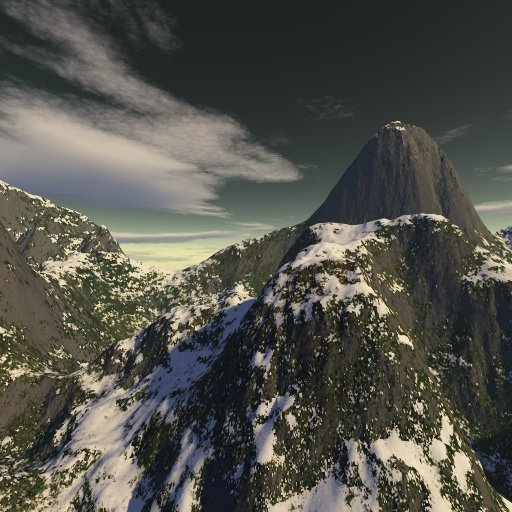
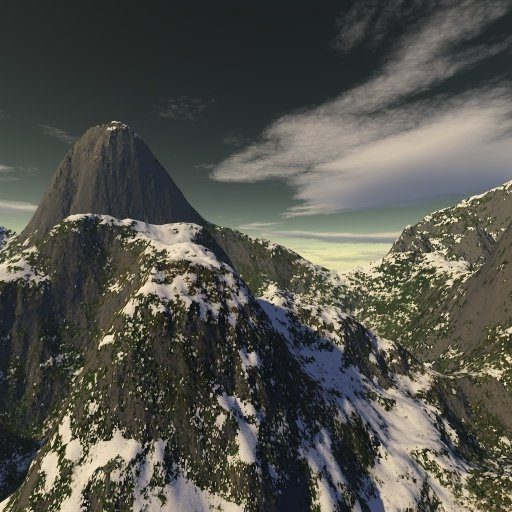
update; Improved skybox generation and view update;

diff --git a/osgviewerQt/DualScreenViewer.cpp b/osgviewerQt/DualScreenViewer.cpp
@@ -235,7 +235,7 @@ void DualScreenViewer::Update(IArgs *results)
         osgGA::CameraManipulator* cameraManipulator = keyManipulator->getCurrentMatrixManipulator(); //keyManipulator->getMatrixManipulatorWithIndex(i);
         HandleManipulator(cameraManipulator, results);
     }
-
+    Update(view, m_virtualEye);
 }
 
 void DualScreenViewer::HandleManipulator(osgGA::CameraManipulator* cameraManipulator, IArgs *results)
@@ -261,22 +261,8 @@ void DualScreenViewer::HandleManipulator(osgGA::CameraManipulator* cameraManipul
         osgGA::TrackballManipulator* trackballManipulator = static_cast<osgGA::TrackballManipulator*>(cameraManipulator);
         trackballManipulator->getTransformation(eye, rotation);
     }
+
     m_virtualEye = eye;
-    SetupView(m_virtualEye);
-    SetupProjection(m_virtualEye);
-    osgViewer::View* view = static_cast<osgViewer::View*>(m_viewerArgs.Get("main"));
-    osg::DisplaySettings* ds = view->getDisplaySettings();
-    ds->setScreenDistance(-m_virtualEye.length());
-    for (int i = 0; i < NumOfScreens; i++)
-    {
-        osgViewer::View::Slave& slave = view->getSlave(i);
-        slave._viewOffset = m_viewOffset[i];
-        slave._projectionOffset = m_projectionOffset[i];
-    }
-
-    //MyClampProjectionMatrixCallback* callback = static_cast<MyClampProjectionMatrixCallback*>( camera->getClampProjectionMatrixCallback() );
-    //callback->clampProjectionMatrixImplementation(camera->getProjectionMatrix(), m_display.zNear, m_display.zFar);
-
 }
 
 void DualScreenViewer::UpdateMap(void* instance, IArgs* args)
@@ -294,29 +280,38 @@ void DualScreenViewer::UpdateMap(void* instance, IArgs* args)
 }
 
 
-void DualScreenViewer::SetupView(osg::Vec3 eye)
+void DualScreenViewer::SetupView()
 {
-    //m_viewMatrix = osg::Matrix::lookAt(m_virtualCenter, m_virtualOrigin, osg::Vec3(0,1,0));
     double angle = osg::inDegrees(m_angleBetweenScreensInDegrees/2.0);
     double angleOffset = osg::PI_2 - angle;
-
-    //osg::Vec3 rightCenter(m_display.Width * cos(angleOffset), m_virtualOrigin.y(), m_display.Width * sin(angleOffset));
-    //osg::Vec3 leftCenter(-m_display.Width * cos(angleOffset), m_virtualOrigin.y(), m_display.Width * sin(angleOffset));
-    //osg::Vec3 eyeCenter(m_virtualOrigin.x(), eye.y(), m_virtualOrigin.z());
     double sx = tan(angleOffset);
     m_viewOffset[Right] = osg::Matrix::translate(-m_virtualCenter) * osg::Matrix::rotate(-angleOffset, osg::Vec3(0,1,0)) * MatrixExtension::getShear(osg::Vec3(sx, 0.0, 1.0)) * osg::Matrix::translate(m_virtualCenter);
     m_viewOffset[Left] = osg::Matrix::translate(-m_virtualCenter) * osg::Matrix::rotate(angleOffset, osg::Vec3(0,1,0)) * MatrixExtension::getShear(osg::Vec3(-sx, 0.0, 1.0)) * osg::Matrix::translate(m_virtualCenter);;
 } 
 
-void DualScreenViewer::SetupProjection(osg::Vec3 eye)
+void DualScreenViewer::SetupProjection()
 {
     m_projectionMatrix = m_display.GetFrustum();
     double offset = 1.0 + m_display.BezelWidth/m_display.Width;
+    m_projectionOffset[Right] = osg::Matrix::translate(offset, 0.0, 0.0);
+    m_projectionOffset[Left]  = osg::Matrix::translate(-offset, 0.0, 0.0);
+}
+
+void DualScreenViewer::Update(osgViewer::View* view, osg::Vec3 eye)
+{
     double offsetX = eye.x()/m_display.screenWidth;
     double offsetY = eye.y()/m_display.screenHeight;
     double offsetZ = (eye.z()-m_virtualCenter.z())/m_display.screenDepth;
-    m_projectionOffset[Right] = osg::Matrix::translate(offsetX+offset, offsetY, offsetZ);
-    m_projectionOffset[Left]  = osg::Matrix::translate(offsetX-offset, offsetY, offsetZ);
+
+    osg::DisplaySettings* ds = view->getDisplaySettings();
+    ds->setScreenDistance(-eye.length());
+
+    for (int i = 0; i < NumOfScreens; i++)
+    {
+        osgViewer::View::Slave& slave = view->getSlave(i);
+        //slave._viewOffset = m_viewOffset[i];
+        slave._projectionOffset = m_projectionOffset[i] * osg::Matrix::translate(offsetX, offsetY, offsetZ);
+    }
 }
 
 
@@ -375,7 +370,7 @@ void DualScreenViewer::ToggleStereoSettings(osgViewer::View* view)
     {
         ds->setStereoMode(osg::DisplaySettings::HORIZONTAL_SPLIT);
         ds->setDisplayType(osg::DisplaySettings::MONITOR);
-        ds->setScreenDistance(-1.0f/*m_display.screenDepth*/); 
+        ds->setScreenDistance(m_display.screenDepth); 
         ds->setScreenHeight(m_display.screenHeight);
         ds->setScreenWidth(m_display.screenWidth);
         ds->setEyeSeparation(0.05f);
@@ -490,7 +485,7 @@ osg::MatrixTransform* DualScreenViewer::makeFrustumFromCamera(osgViewer::View* v
     for(unsigned int i = 0; i < numOfSlaves; i++)
     {
         osg::View::Slave& slave = view->getSlave(i);
-        osg::Matrixd slaveProj(proj * slave._projectionOffset);
+        osg::Matrixd slaveProj(proj * m_projectionOffset[i]);
         osg::MatrixTransform* mtSlave = new osg::MatrixTransform;
         mtSlave->setMatrix( osg::Matrixd::inverse( slave._viewOffset ) );
         mtSlave->addChild( drawFrustum(slaveProj) );

diff --git a/Holoview/HoloWindow.cpp b/Holoview/HoloWindow.cpp
@@ -6,30 +6,30 @@ HoloWindow::HoloWindow(const QMap<QString, QSize> &customSizeHints,
 	: MainWindow(customSizeHints, parent, flags)
 {
     osg::ref_ptr<osg::Node> duck = osgDB::readNodeFile("../Dependencies/Models/Collada/duck.dae.-90,-90,0.rot");
-    osg::ref_ptr<osg::Node> airplane = osgDB::readNodeFile("../Dependencies/Models/3ds/airplane/Airplane AN-2 N200314.3DS.-90,-10,0.rot");
-    osg::ref_ptr<osg::Node> cessna = osgDB::readNodeFile("../Dependencies/Models/3ds/TargetCameraAnim.3ds.-90,0,0.rot");
-    osg::ref_ptr<osg::Node> kinect = osgDB::readNodeFile("../Dependencies/Models/3ds/kinect/kinect_edited.3ds.-20,0,0.rot");
+    osg::ref_ptr<osg::Node> airplane = osgDB::readNodeFile("../Dependencies/Models/3ds/airplane/Airplane AN-2 N200314.3DS.-90,-100,0.rot");
+    //osg::ref_ptr<osg::Node> cessna = osgDB::readNodeFile("../Dependencies/Models/3ds/TargetCameraAnim.3ds.-90,0,0.rot");
+    //osg::ref_ptr<osg::Node> kinect = osgDB::readNodeFile("../Dependencies/Models/3ds/kinect/kinect_edited.3ds.-20,0,0.rot");
 
     osg::Vec3 modelPosition1(0.50, 0.0, 0);
     osg::Vec3 modelPosition2(-0.50, 0.0, 0);
-    osg::Vec3 modelPosition3(0.25, 0.0,  0);
-    osg::Vec3 modelPosition4(-0.25, 0.0, 0);
-    osg::Vec3 modelPosition5(0.0, 0.0, 0.30); //kinect
+    //osg::Vec3 modelPosition3(0.25, 0.0,  0);
+    //osg::Vec3 modelPosition4(-0.25, 0.0, 0);
+    //osg::Vec3 modelPosition5(0.0, 0.0, 0.30); //kinect
 
     osg::ref_ptr<osg::PositionAttitudeTransform> transform1 = GetModelTransformHelper(duck, modelPosition1);
     osg::ref_ptr<osg::PositionAttitudeTransform> transform2 = GetModelTransformHelper(airplane, modelPosition2);
-    osg::ref_ptr<osg::PositionAttitudeTransform> transform3 = GetModelTransformHelper(cessna, modelPosition3);
-    osg::ref_ptr<osg::PositionAttitudeTransform> transform4 = GetModelTransformHelper(duck, modelPosition4);
-    osg::ref_ptr<osg::PositionAttitudeTransform> transform5 = GetModelTransformHelper(kinect, modelPosition5);
+    //osg::ref_ptr<osg::PositionAttitudeTransform> transform3 = GetModelTransformHelper(cessna, modelPosition3);
+    //osg::ref_ptr<osg::PositionAttitudeTransform> transform4 = GetModelTransformHelper(duck, modelPosition4);
+    //osg::ref_ptr<osg::PositionAttitudeTransform> transform5 = GetModelTransformHelper(kinect, modelPosition5);
 
     osg::ref_ptr<osg::Group> root = new osg::Group();
     osg::ref_ptr<osg::Group> scene = new osg::Group();
     
     scene->addChild(transform1);
     scene->addChild(transform2);
-    scene->addChild(transform3);
-    scene->addChild(transform4);
-    scene->addChild(transform5);
+    //scene->addChild(transform3);
+    //scene->addChild(transform4);
+    //scene->addChild(transform5);
 
     m_viewer = new DualScreenViewer();
 
@@ -38,7 +38,7 @@ HoloWindow::HoloWindow(const QMap<QString, QSize> &customSizeHints,
     osgViewer::View* mainView = static_cast<osgViewer::View*>(m_viewer->GetViewerArgs()->Get("main"));
     mainView->setSceneData( scene.get() );
     AddGrid( mainView );
-    AddSkyBox( mainView );
+    AddSkyBox( mainView , "snow");
 
     // View 1 -- Contains the loaded model, as well as a wireframe frustum derived from View 0's Camera.
 
@@ -83,7 +83,7 @@ void HoloWindow::AddGrid(osgViewer::View* view)
     view->setSceneData( root );
 }
 
-void HoloWindow::AddSkyBox(osgViewer::View* view)
+void HoloWindow::AddSkyBox(osgViewer::View* view, std::string name)
 {
     osg::Node* scene = view->getSceneData();
 
@@ -93,29 +93,14 @@ void HoloWindow::AddSkyBox(osgViewer::View* view)
 
     SkyBox* skybox = new SkyBox();
     skybox->getOrCreateStateSet()->setTextureAttributeAndModes( 0, new osg::TexGen );
-    std::string name = "axis";
-    std::string path = "../Dependencies/Images/Cubemap_" + name + "/";
-    std::string ext = ".png";
-    std::string sign[] = { "pos", "neg" };
-    std::string axis[] = { "x", "y", "z" };
-    std::vector<osg::Image*> images;
-    bool flipX = true;
-    bool flipY = true;
-    for (int i=0; i < 6; i++)
-    {
-        std::string filename = path + sign[i%2] + axis[i/2] + ext;
-        osg::Image* image = osgDB::readImageFile(filename);
-        if (flipX)
-        {
-            image->flipHorizontal();
-        }
-        if (flipY)
-        {
-            image->flipVertical();
-        }
-        images.push_back(image);
-    }
-    skybox->setEnvironmentMap( 0, images[0], images[1], images[2], images[3], images[4], images[5]);
+
+    skybox->setEnvironmentMap( 0, 
+                                m_skybox.ImageList[name][pos_x],
+                                m_skybox.ImageList[name][neg_x],
+                                m_skybox.ImageList[name][pos_y],
+                                m_skybox.ImageList[name][neg_y],
+                                m_skybox.ImageList[name][pos_z],
+                                m_skybox.ImageList[name][neg_z]);
     skybox->addChild( geode );
 
     osg::Group* root = new osg::Group;

diff --git a/Holoview/HoloWindow.h b/Holoview/HoloWindow.h
@@ -34,10 +34,74 @@ class HoloWindow : public MainWindow
         bool AddOsgDockWidget(QWidget *parent = 0);
     protected:
         /*Ui_HoloWindowClass ui;*/
-        virtual void AddSkyBox(osgViewer::View* view);
+        virtual void AddSkyBox(osgViewer::View* view, std::string name);
         virtual void AddGrid(osgViewer::View* view);
         osg::ref_ptr<DualScreenViewer> m_viewer;
         osg::ref_ptr<SelectModelHandler> m_selectModel;
+
+    enum SKYBOX_ID
+    {
+        Axis = 0,
+        Snow = 1,
+        NumOfSkyBoxes = 2
+    };
+    enum SKYBOX_SIDE
+    {
+        pos_x = 0,
+        neg_x = 1,
+        pos_y = 2,
+        neg_y = 3,
+        pos_z = 4,
+        neg_z = 5,
+        NumOfBoxSides = 6
+    };
+
+    struct SkyBoxInfo
+    {
+        SkyBoxInfo()
+        {
+            name[Snow] = "snow";
+            ext[Snow] = ".jpg";
+            flipX[Snow] = true;
+            flipY[Snow] = true;
+
+            name[Axis] = "axis";
+            ext[Axis] = ".png";
+            flipX[Axis] = false;
+            flipY[Axis] = false;
+
+            std::string sign[] = { "pos", "neg" };
+            std::string axis[] = { "x", "y", "z" };
+
+            std::vector<osg::Image*> images;
+            for (int j=0; j < NumOfSkyBoxes; j++) 
+            {
+                std::string path = "../Dependencies/Images/Cubemap_" + name[j] + "/";
+                for (int i=0; i < NumOfBoxSides; i++)
+                {
+                    std::string filename = path + sign[i%2] + axis[i/2] + ext[j];
+                    osg::ref_ptr<osg::Image> image = osgDB::readImageFile(filename);
+                    if (flipX)
+                    {
+                        image->flipHorizontal();
+                    }
+                    if (flipY)
+                    {
+                        image->flipVertical();
+                    }
+                    ImageList[name[j]].push_back(image);
+                }
+            }
+        };
+    public:
+        std::map<std::string, std::vector<osg::ref_ptr<osg::Image>>> ImageList;
+    protected:
+        std::string name[NumOfSkyBoxes];
+        std::string ext[NumOfSkyBoxes];
+        bool flipX[NumOfSkyBoxes];
+        bool flipY[NumOfSkyBoxes];
+    };
+    SkyBoxInfo m_skybox;
 };
 
 #endif // HOLOWINDOW_H

diff --git a/osgviewerQt/DualScreenViewer.h b/osgviewerQt/DualScreenViewer.h
@@ -47,8 +47,9 @@ public:
     virtual void Setup();
     virtual void CreateGraphicsWindow(osgViewer::View* view);
     virtual void Update(IArgs* results);
-    virtual void SetupView(osg::Vec3 eye = osg::Vec3(0,0,0));
-    virtual void SetupProjection(osg::Vec3 eye = osg::Vec3(0,0,0));
+    virtual void SetupView();
+    virtual void SetupProjection();
+    virtual void Update(osgViewer::View* view, osg::Vec3 eye);
     osg::ref_ptr<osg::GraphicsContext::Traits> GetTraits() { return m_traits; };
     osg::Vec3& GetVirtualOrigin() { return m_virtualOrigin; };
     osg::Vec3& GetVirtualCenter() { return m_virtualCenter; };
